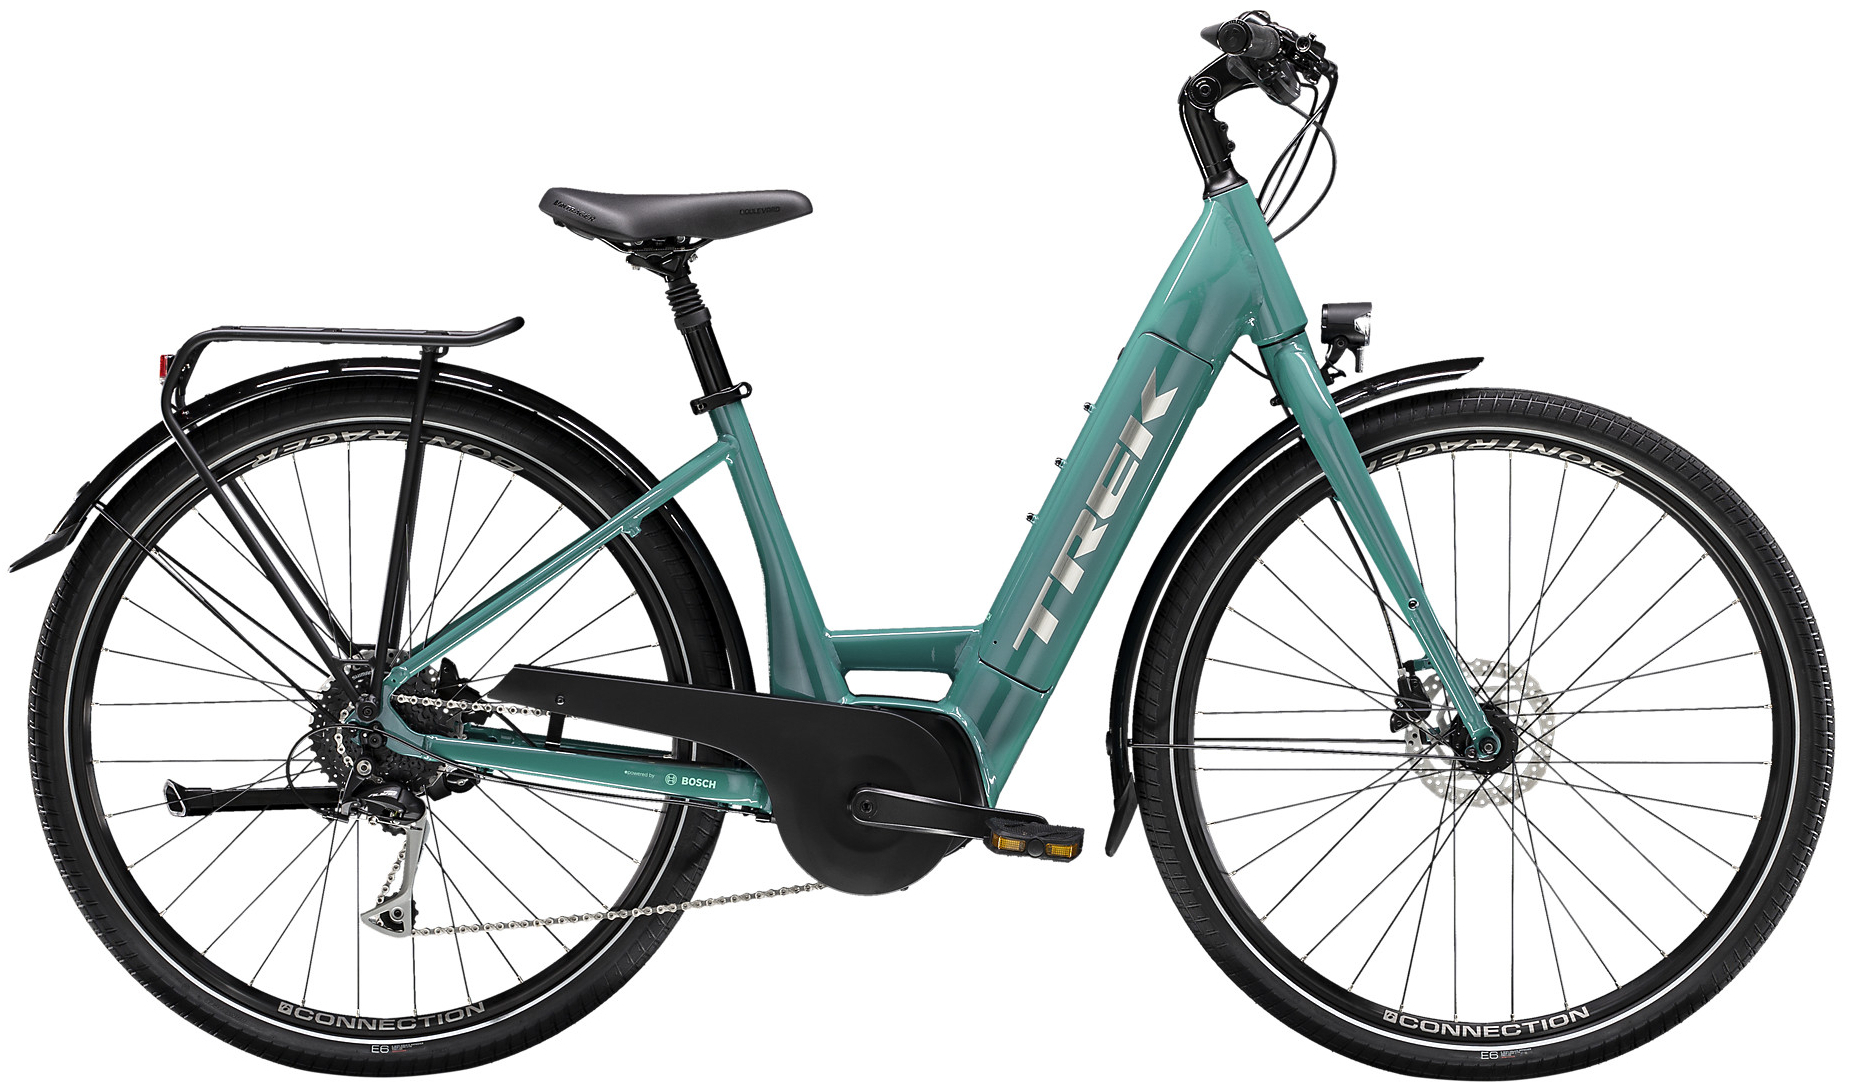
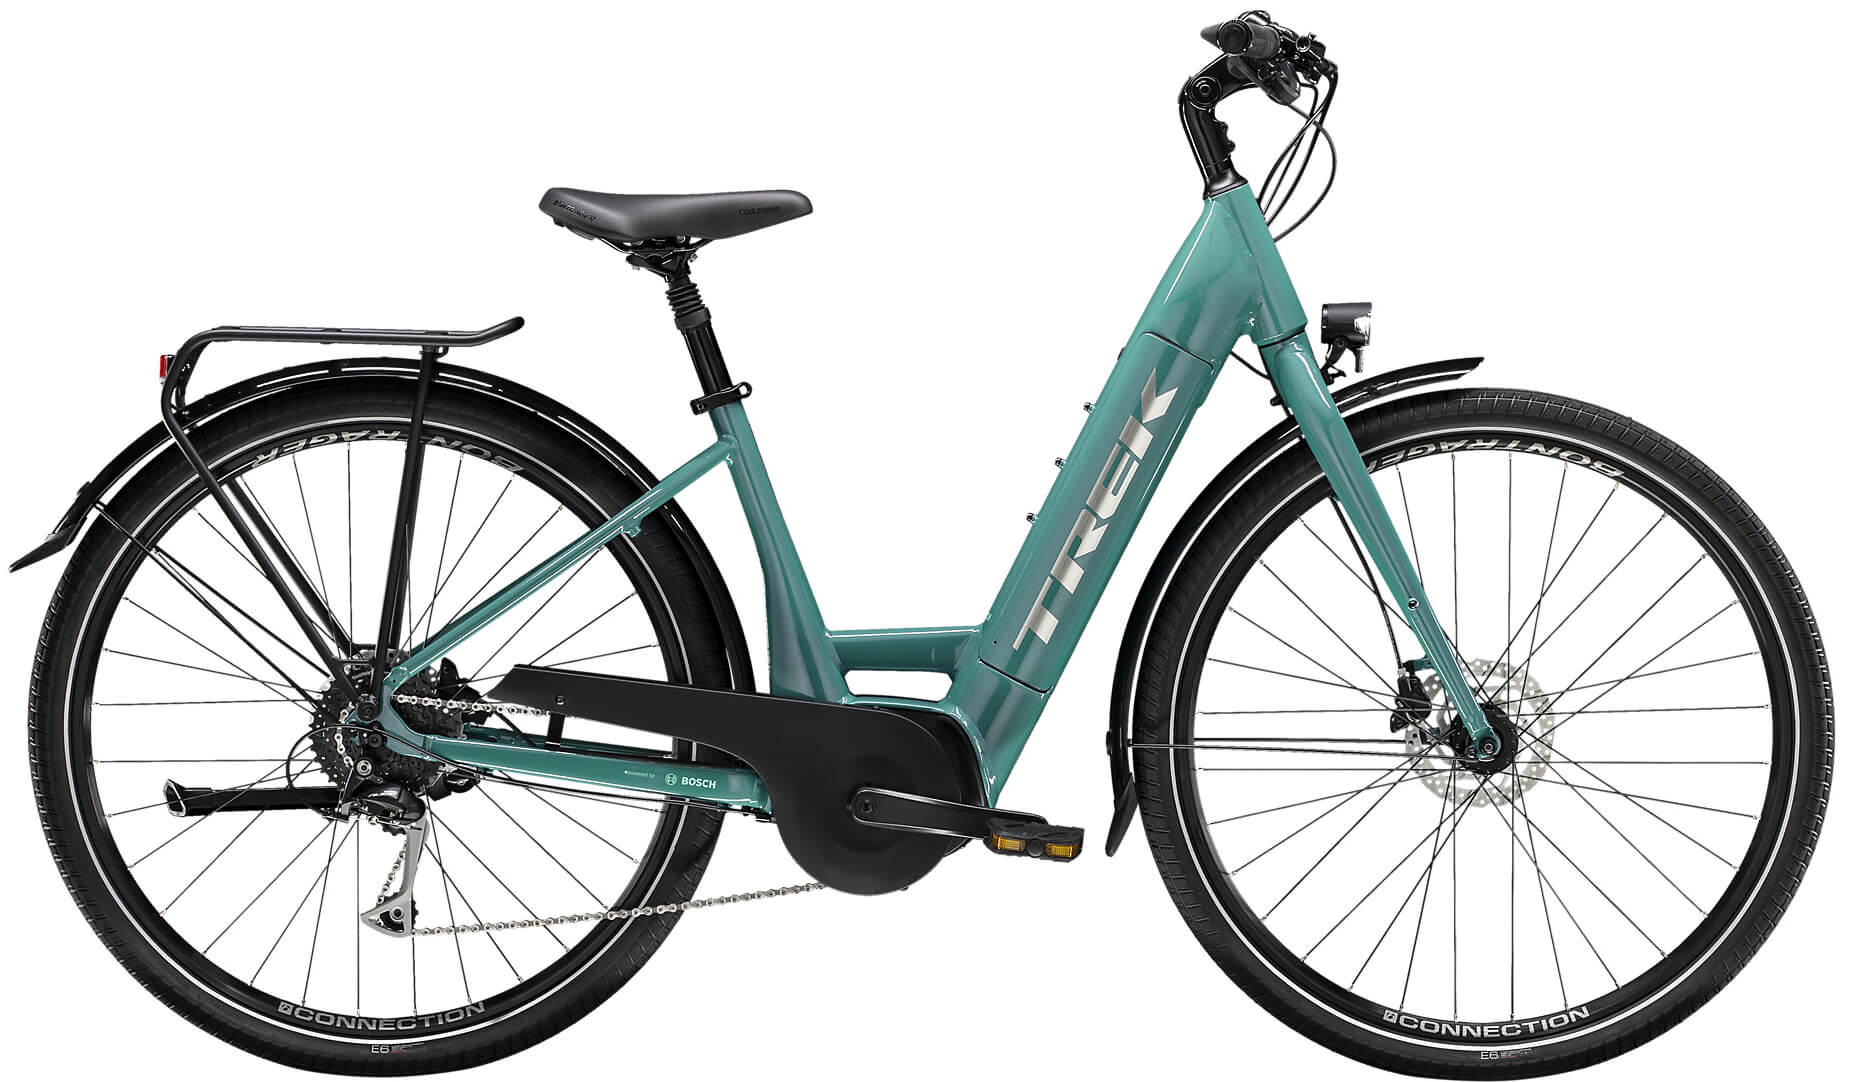
Task 1.5 – reduced bikes img size (tinypng); fixed img oversize in IE11; and mall fix fr address block in contact us page

diff --git a/Task_1.5_Create_Bike_shop_website/styles/style.css b/Task_1.5_Create_Bike_shop_website/styles/style.css
@@ -112,7 +112,7 @@ body {
 ----------------------------------- */
 .main__search-form {
   border-right: 4px solid rgba(0, 155, 224, .4); /* rgb(0,155,224) = #009be0*/
-  flex: 0 0 25%;
+  width: 25%;
   min-width: 200px;
   padding: 15px;
   transition: border .2s, box-shadow .2s;
@@ -130,7 +130,7 @@ body {
 
 .main__content {
   background-color: #fffffe;
-  flex: 1 1 auto;
+  width: 75%;
   padding: 15px;
 }
 
@@ -146,8 +146,8 @@ body {
   margin: 0 0 20px 20px;
   padding: 10px;
   min-height: 300px;
-  /* ((100% - this.margin-left * 2 {2 is number of cards in the row - 1} / 3 {3 is number of cards in the row} */
-  width: calc((100% - 40px) / 3);
+  /* ((100% - this.margin-left * 2 {2 is number of cards in the row - 1} - few px for IE11 glitches / 3 {3 is number of cards in the row} */
+  width: calc((100% - 45px) / 3);
   transition: box-shadow .2s;
 }
 
@@ -162,12 +162,12 @@ body {
 
 .card__img {
   width: 100%;
+  min-height: 1px; /* IE11 workaround to avoid big height of this block with lots of white space */
 }
 
 .card__img img {
-  height: 100%;
-  width: 100%;
-  object-fit: contain;
+  max-width: 100%;
+  height: auto;
 }
 
 .card__brand-and-model {
@@ -320,10 +320,13 @@ body {
   color: #009be0;
 }
 
+.about-us__contact-info a address,
 .about-us__contact-info a span {
+  display: inline;
   padding: 0 5px;
 }
 
+.about-us__contact-info a:focus address,
 .about-us__contact-info a:focus span {
   outline: 1px solid #009be0;
 }
@@ -406,7 +409,7 @@ body {
 
   /* only 2 cards in the row (2 cards__card) */
   .cards__card {
-    width: calc((100% - 20px) / 2); /* ((100% - this.margin-left / 2 {2 is number of cards in the row} */
+    width: calc((100% - 25px) / 2); /* ((100% - this.margin-left - few px for IE11 glitches / 2 {2 is number of cards in the row} */
   }
 
   /* ".cards__card" can`t be used here because we need to override "cards__card:nth-child()" from the other @media rules */
@@ -558,7 +561,7 @@ body {
   .main__search-form {
     border-bottom: 4px solid rgba(0, 155, 224, .4); /* rgb(0,155,224) = #009be0*/
     border-right: none;
-    flex: 0 0 auto;
+    width: 100%;
     max-width: none;
     transition: border .2s, box-shadow .2s;
   }
@@ -568,6 +571,10 @@ body {
     border-right: none;
     box-shadow: inset 0 2px 10px 0 #005dd9;
     transition: border .2s, box-shadow .2s;
+  }
+
+  .main__content {
+    width: 100%;
   }
 
   /* only 1 card in the row (1 cards__card) */

diff --git a/Task_1.5_Create_Bike_shop_website/index.html b/Task_1.5_Create_Bike_shop_website/index.html
@@ -176,7 +176,7 @@
                 </div>
                 <div class="card__item-model">
                   <span class="card-item__prop-name">Model:</span>
-                  <span class="card-item__prop-value">7</span>
+                  <span class="card-item__prop-value">Bike 7</span>
                 </div>
               </div>
               <div class="card__pricing">
